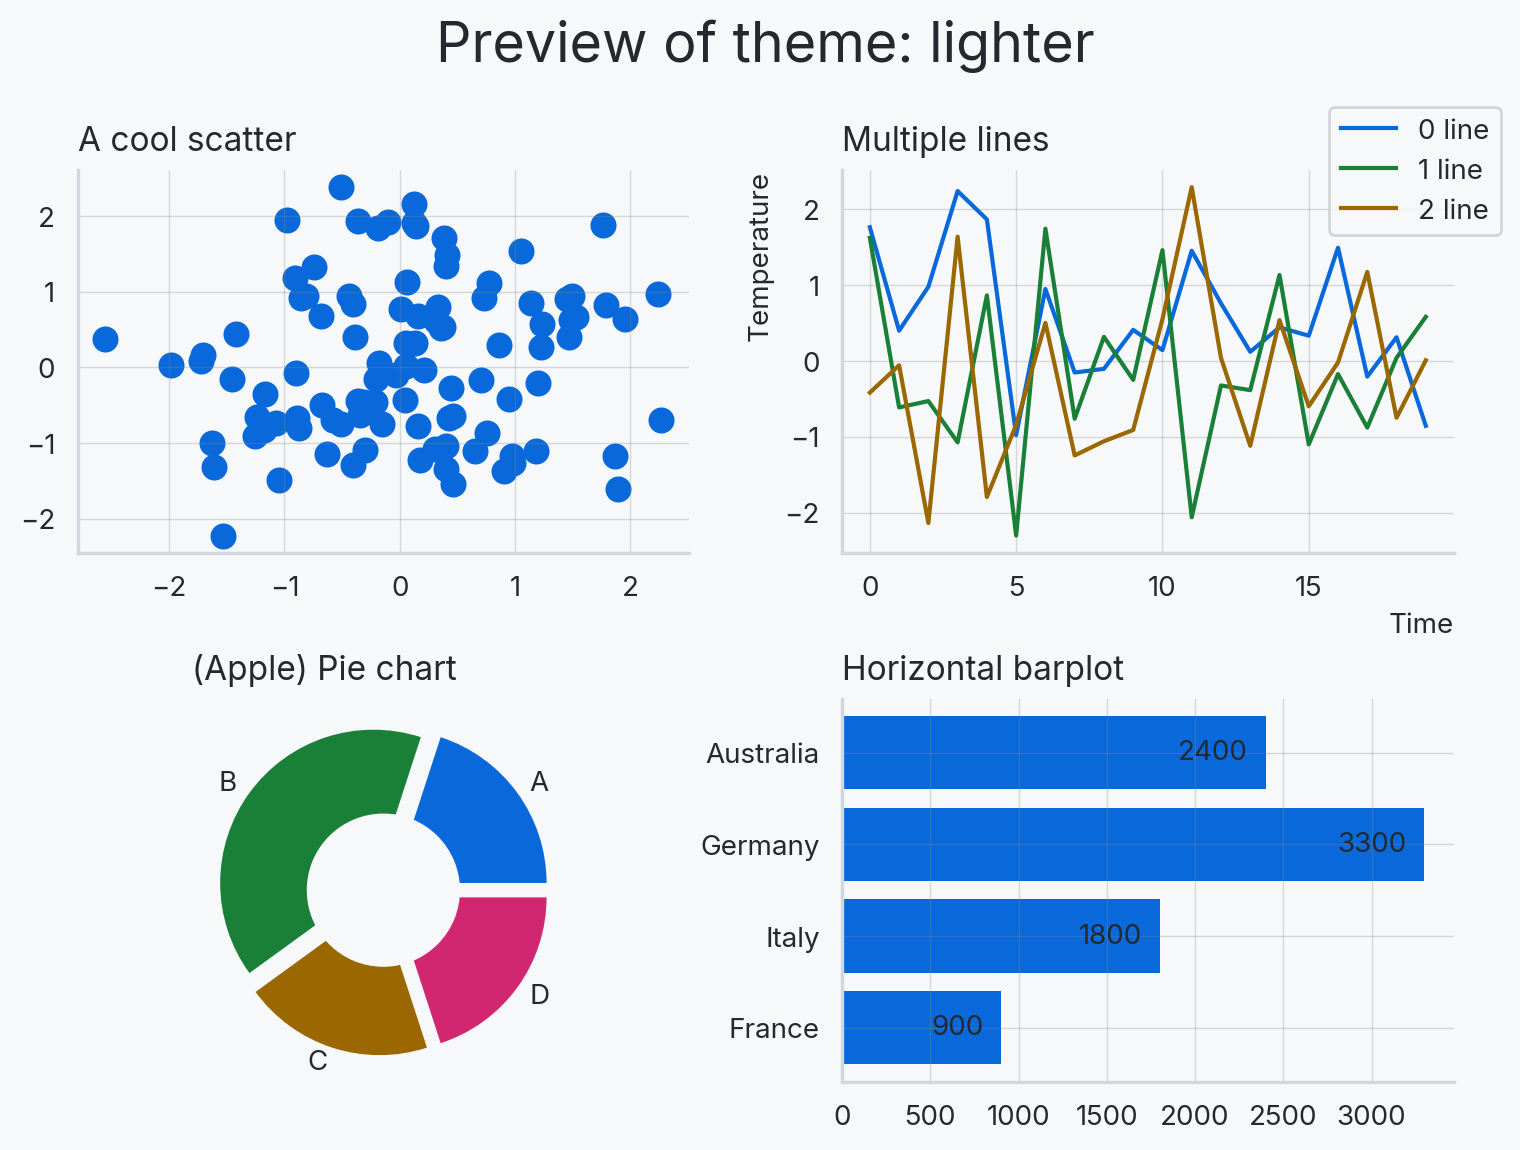
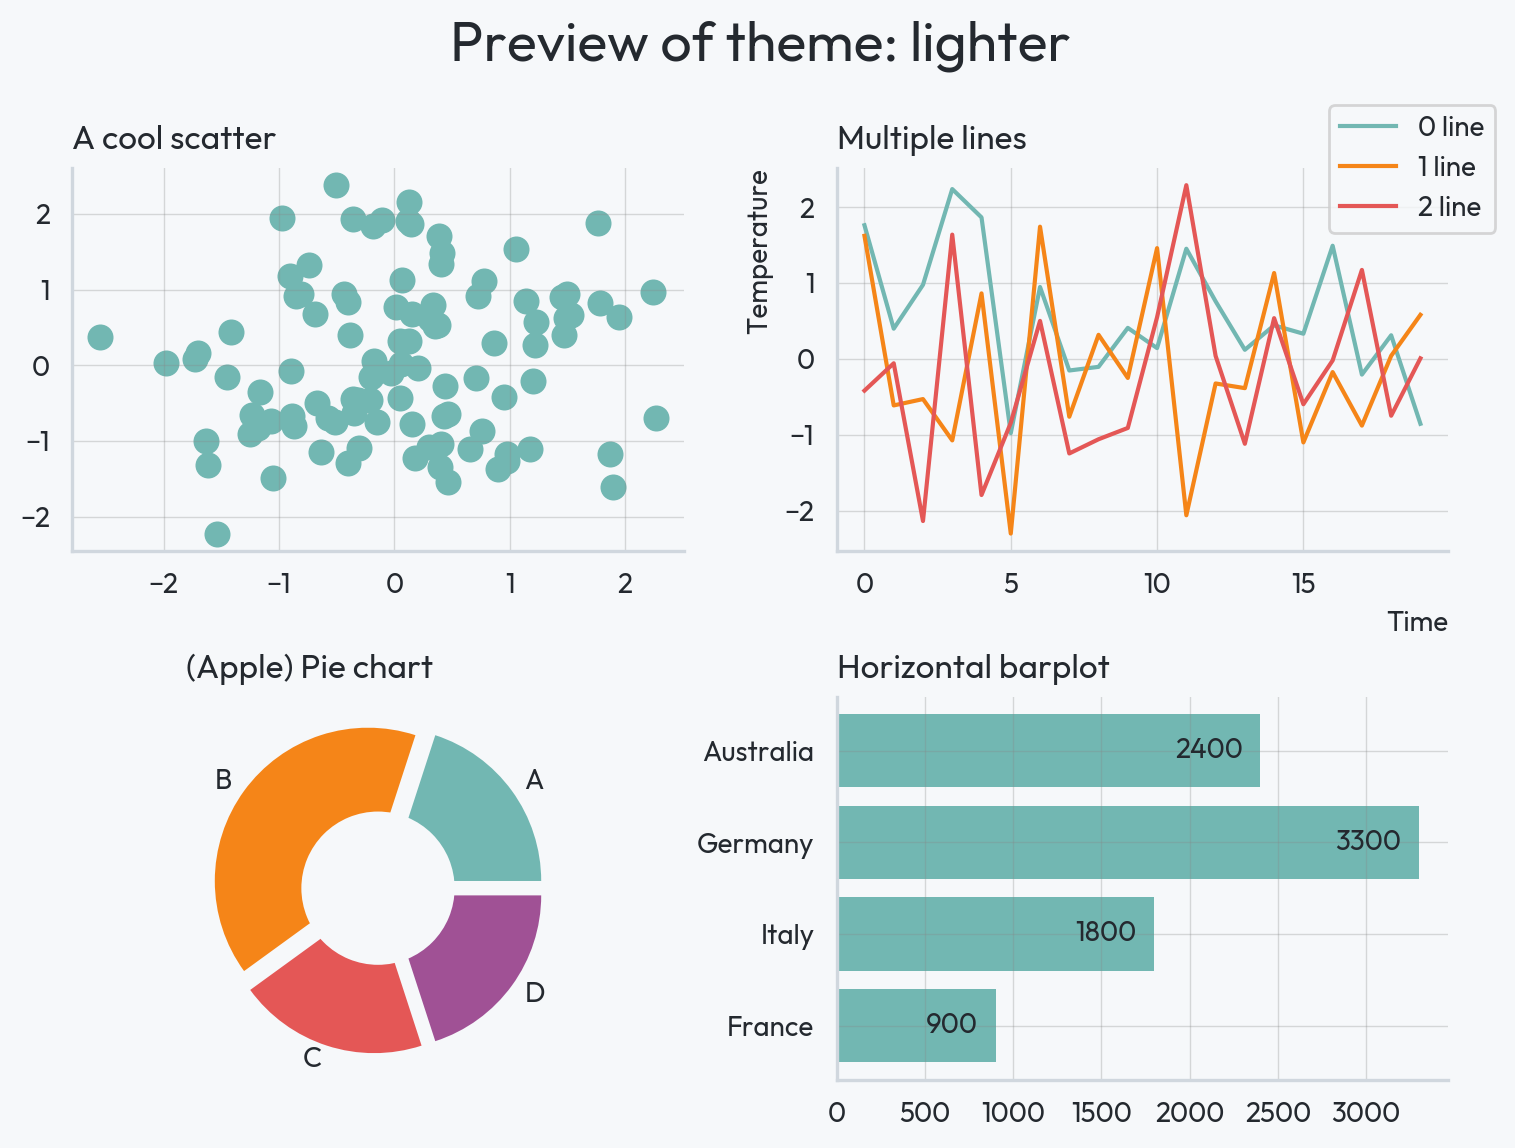
improve lighter theme

diff --git a/morethemes/themes.py b/morethemes/themes.py
@@ -451,7 +451,7 @@ lighter_theme = {
     "name": "lighter",
     "description": "A clean, modern theme inspired by the lighter aesthetic, perfect for technical charts.",
     "theme": {
-        "font.family": _set_family("Inter"),
+        "font.family": _set_family("Outfit"),
         "axes.spines.top": False,
         "axes.spines.right": False,
         "xtick.minor.visible": False,
@@ -477,7 +477,14 @@ lighter_theme = {
         "ytick.color": "#24292f",
         "axes.linewidth": 1.2,
         "axes.prop_cycle": cycler(
-            "color", ["#0969da", "#1a7f37", "#9a6700", "#d12771", "#8250df", "#6e7781"]
+            "color",
+            [
+                "#72b7b2",  # teal
+                "#f58518",  # orange
+                "#e45756",  # coral red
+                "#a05195",  # purple
+                "#54a24b",  # green
+            ],
         ),
     },
 }
